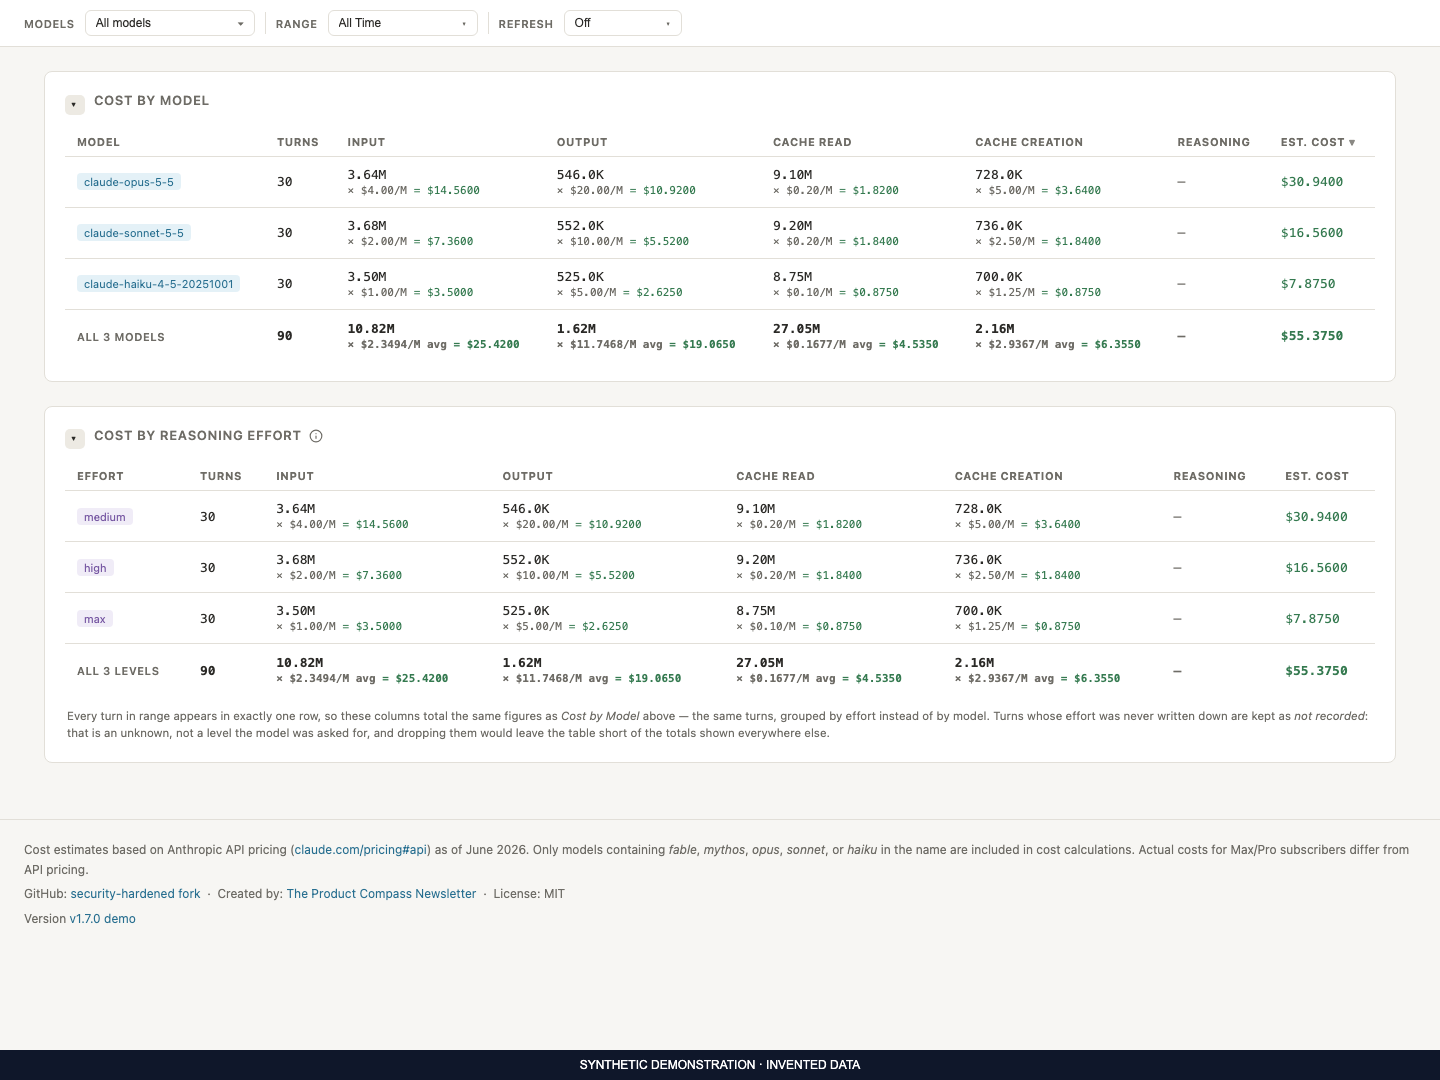
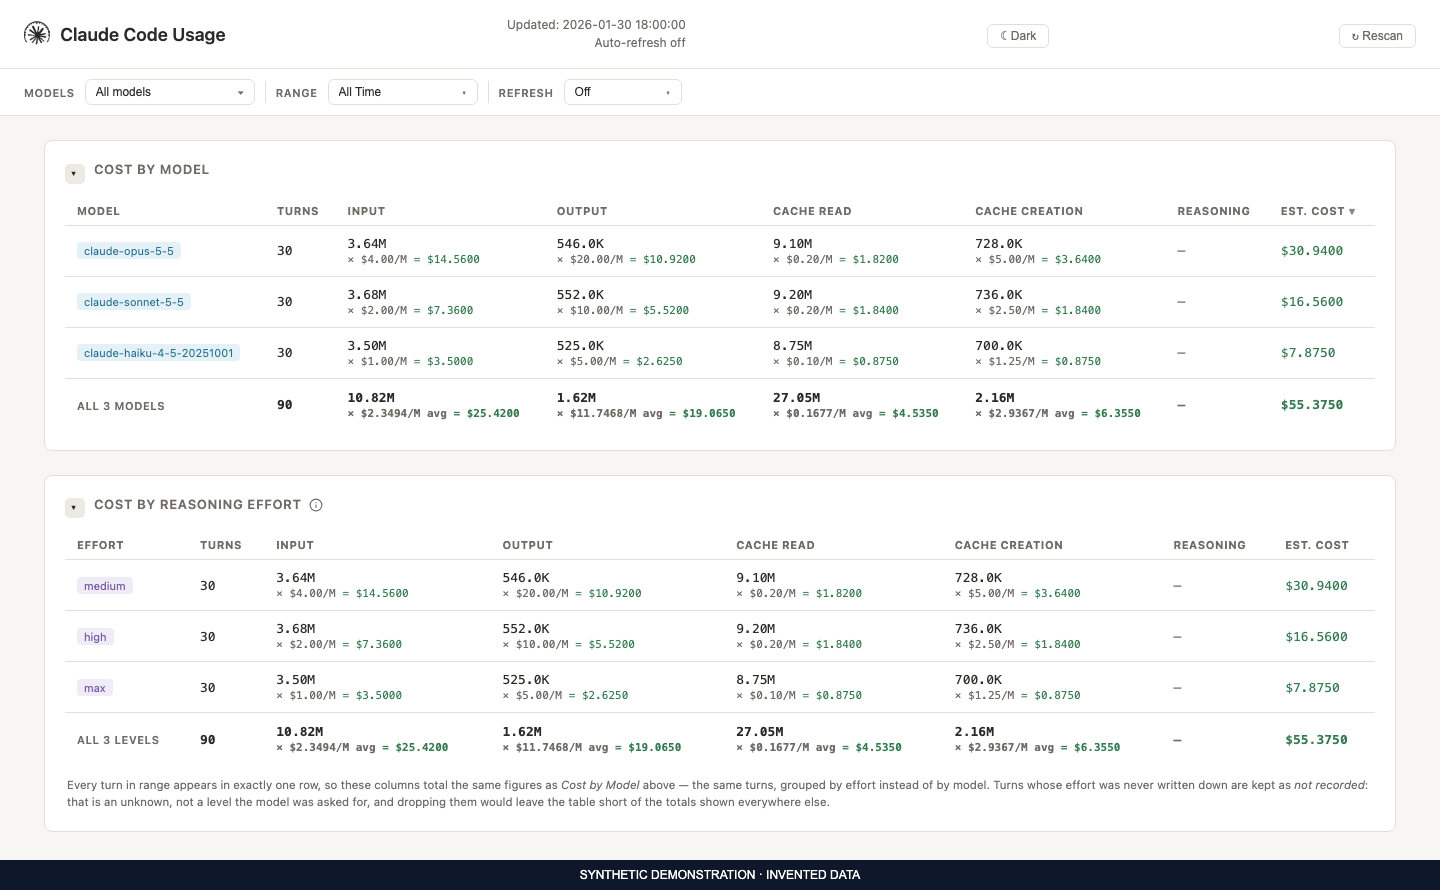
docs: showcase the dashboard with safe example screenshots

diff --git a/scripts/render-demo.py b/scripts/render-demo.py
@@ -106,7 +106,8 @@ def render(browser, output):
         pages = {}
         for view in ('overview', 'charts', 'tables'):
             probe = """<script nonce="demo">
-            document.documentElement.dataset.theme = 'light';
+            localStorage.setItem('claude-usage-theme', 'light');
+            applyTheme('light');
             let attempts = 0;
             function settleDemo() {
               if (!document.querySelector('#model-cost-body tr')) {
@@ -124,13 +125,11 @@ def render(browser, output):
             </script>"""
             # Focus the documentation on existing rendered cards without scroll
             # timing or modifying their values. The source UI stays unchanged.
-            focus = ''
-            if view != 'overview':
-                focus = 'header,.controls,#jump-bar,#stats-row {display:none!important}'
+            focus = 'footer {display:none!important}'
             if view == 'charts':
-                focus += '.table-card,#sec-subagents {display:none!important}'
+                focus += 'header,#jump-bar,#stats-row,.table-card,#sec-subagents {display:none!important}'
             if view == 'tables':
-                focus += '.charts-grid,.table-card:not(#sec-cost-model):not(#sec-cost-effort) {display:none!important}'
+                focus += '#jump-bar,#stats-row,.charts-grid,.table-card:not(#sec-cost-model):not(#sec-cost-effort) {display:none!important}'
             focused = page.replace('</head>', '<style>' + focus + '</style></head>')
             pages['/' + view] = focused.replace('</body>', probe + '</body>').encode('utf-8')
         chart = (ROOT / 'vendor/chart.umd.js').read_bytes()
@@ -178,14 +177,16 @@ def render(browser, output):
         worker = threading.Thread(target=server.serve_forever, daemon=True)
         worker.start()
         try:
-            for view, filename in (('overview', 'screenshot.png'), ('charts', 'usage1.png'), ('tables', 'usage2.png')):
+            for view, filename, height in (('overview', 'screenshot.png', 915),
+                                           ('charts', 'usage1.png', 1080),
+                                           ('tables', 'usage2.png', 890)):
                 url = f'http://127.0.0.1:{server.server_port}/{view}?source=claude&range=all#token=' + 'd' * 40
                 result = subprocess.run([
                     str(browser), '--headless', '--disable-gpu', '--no-sandbox',
                     '--disable-background-networking', '--no-first-run',
                     '--disable-sync', '--hide-scrollbars', '--force-device-scale-factor=1',
                     '--user-data-dir=' + str(temporary / ('profile-' + view)),
-                    '--window-size=1440,1080', '--virtual-time-budget=15000',
+                    f'--window-size=1440,{height}', '--virtual-time-budget=15000',
                     '--screenshot=' + str(output / filename), '--dump-dom', url,
                 ], capture_output=True, text=True, encoding='utf-8', timeout=60)
                 if result.returncode or 'data-demo-ready="true"' not in result.stdout:

diff --git a/docs/README.md b/docs/README.md
@@ -13,10 +13,40 @@ subagents, and quota windows. Use it in your browser or inside VS Code.
 Optional live Anthropic quota queries require explicit opt-in and credentials.
 See [Privacy](PRIVACY.md) for the data stored locally and the network boundary.
 
-![Dashboard with synthetic demonstration data](screenshot.png)
+## Screenshots
 
-*The screenshots use invented projects and usage figures. They are examples,
-not a record of anyone's account or spending.*
+Two views of the dashboard using **invented demonstration data**. Click either
+image to open it at full size.
+
+### Usage at a glance
+
+Sessions, tokens, cache usage and an API-equivalent cost estimate, followed by
+the daily usage chart. Use the model and date filters to explore a period.
+
+[![Light dashboard showing usage totals and a daily token chart with synthetic data](https://raw.githubusercontent.com/mlizaso/claude-usage/main/docs/screenshot.png)](https://raw.githubusercontent.com/mlizaso/claude-usage/main/docs/screenshot.png)
+
+### Cost breakdown
+
+Compare input, output and cache costs by model and reasoning effort. These
+figures are estimates from the bundled rate tables, not an account bill.
+
+[![Dashboard showing token counts and estimated costs by model and reasoning effort with synthetic data](https://raw.githubusercontent.com/mlizaso/claude-usage/main/docs/usage2.png)](https://raw.githubusercontent.com/mlizaso/claude-usage/main/docs/usage2.png)
+
+**What you can see:** usage totals, charts and metadata such as project names,
+branches and session titles. These examples show Claude Code; Codex has its own
+source view.
+
+**What you cannot see:** full prompts, responses or source-code contents in the
+dashboard. It is not a conversation viewer, a billing statement or an account-wide
+history of activity missing from local logs. Quota panels appear only when
+supported readings are available; this demo contains none.
+
+All session IDs, project names and usage figures in these images are invented.
+Real screenshots can reveal private work through their metadata; see
+[Privacy](PRIVACY.md) before sharing your own.
+
+<details>
+<summary>Regenerate the screenshots safely</summary>
 
 The fixtures and capture process are preserved in `scripts/render-demo.py`.
 It inserts 90 invented sessions into a temporary database, blocks real usage
@@ -25,6 +55,8 @@ paths, and renders the page with a fresh browser profile in UTC. To regenerate:
 ```bash
 python3 scripts/render-demo.py --browser /path/to/chrome-headless-shell
 ```
+
+</details>
 
 ## Quick Start
 
@@ -227,9 +259,6 @@ Thresholds are saved locally for each quota window.
 
 An independent quota page is available with `python3 limits_server.py`;
 it does not open the usage database. See [Limits backend](LIMITS-BACKEND.md).
-
-![Example charts with synthetic data](usage1.png)
-![Example cost tables with synthetic data](usage2.png)
 
 ### Security and privacy
 
